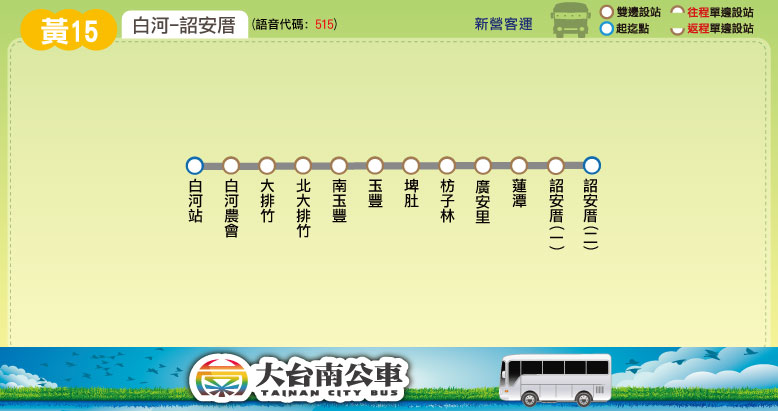
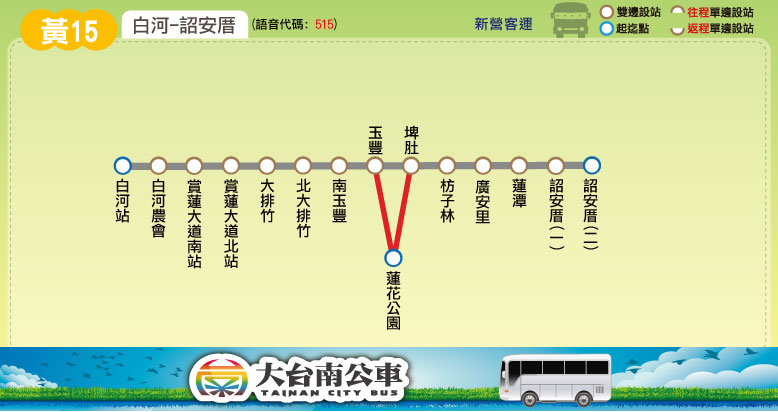
更新時刻表：黃15 (假日新增「白河－蓮花公園」加班車，以及現有班次假日繞駛蓮花公園)

Changed region(s): [[0.1234, 0.3786, 0.3085, 0.6699], [0.4627, 0.4078, 0.5553, 0.8155], [0.4627, 0.2913, 0.5553, 0.3786]]

diff --git a/route/fare_and_time/yellow_15.js b/route/fare_and_time/yellow_15.js
@@ -1,14 +1,13 @@
 yellow_15_interval_name = ["白河","大排竹","玉豐","埤肚","枋子林","蓮潭","詔安厝"];
 yellow_15_interval_stop = [
-["白河站","白河農會"], // 白河
+["白河站","白河農會","賞蓮大道南站","賞蓮大道北站"], // 白河
 ["大排竹","北大排竹"], // 大排竹
-["南玉豐","玉豐"], // 玉豐
+["南玉豐","玉豐","蓮花公園"], // 玉豐
 ["埤肚"], // 埤肚
-["枋子林"], // 枋子林
-["廣安里","蓮潭"], // 蓮潭
+["枋子林","廣安里"], // 枋子林
+["蓮潭"], // 蓮潭
 ["詔安厝(一)","詔安厝(二)"] // 詔安厝
 ];
-yellow_15_stop_time_consume = [0,3,6,6,7,8,10,11,13,13,14,15];
 yellow_15_fare = [
 [26],
 [26,26],
@@ -21,8 +20,13 @@ yellow_15_fare = [
 // format = [time at the start stop] or
 // [time, other] or
 // [time, start_stop, end_stop, other]
-yellow_15_main_stop_name = ["白河","玉豐","枋子林","詔安厝"];
-yellow_15_main_stop_time_consume = [0, 8, 11, 15];
-yellow_15_important_stop = [0, 3]; // 白河, 三層崎
-yellow_15_time_go = [["06:45"],["10:50",['L']],["18:35",['L']]];
-yellow_15_time_return = [["06:25"],["07:05"],["11:10",['L']]];
+yellow_15_main_stop_name = ["白河","玉豐","蓮花公園","枋子林","詔安厝"];
+yellow_15_main_stop_time_consume = [0, 8, 10, 11, 15];
+yellow_15_important_stop = [0, 2, 4]; // 白河, 蓮花公園, 詔安厝
+var start_stop = 0; // 白河
+var end_stop = 2; // 蓮花公園
+yellow_15_time_go = [["06:45",[end_stop]],["10:50",['L',end_stop]],["18:35",['L',end_stop]]];
+yellow_15_time_return = [["06:25",[end_stop]],["07:05",[end_stop]],["11:10",['L',end_stop]]];
+
+yellow_15_holiday_time_go = [["06:45",[[end_stop+1,4]]],["08:10",start_stop,end_stop],["09:10",start_stop,end_stop],["10:10",start_stop,end_stop],["10:50",['L',[end_stop+1,4]]],["12:10",start_stop,end_stop],["13:10",start_stop,end_stop],["14:10",start_stop,end_stop],["15:10",start_stop,end_stop],["16:10",start_stop,end_stop],["17:10",start_stop,end_stop],["18:35",['L',[end_stop+1,4]]]];
+yellow_15_holiday_time_return = [["06:25",[[end_stop,4]]],["07:05",[[end_stop,4]]],["08:30",end_stop,start_stop],["09:30",end_stop,start_stop],["10:30",end_stop,start_stop],["11:10",['L',[end_stop,4]]],["12:30",end_stop,start_stop],["13:30",end_stop,start_stop],["14:30",end_stop,start_stop],["15:30",end_stop,start_stop],["16:30",end_stop,start_stop],["17:30",end_stop,start_stop]];

diff --git a/yellow/yellow_15.html b/yellow/yellow_15.html
@@ -3,12 +3,15 @@
 <head>
 <meta http-equiv="Content-Type" content="text/html; charset=utf-8" />
 <script type="text/javascript">
-	route_name = '黃15';
+	route_name = '黃15 白河賞蓮公車';
 	route_name_en = 'Yellow 15';
 	route_file_name = 'yellow_15';
 	route_type = 'yellow';
-	route_interval = ['白河','詔安厝'];
+	route_interval = ['白河','蓮花公園','詔安厝'];
+	route_start_stop = '白河';
+	route_end_stop = '蓮花公園/詔安厝';
 </script>
+<link href="../css/radio_style.css" rel="stylesheet" />
 <script src="../tools/web_model.js"></script> 
 <script type="text/javascript">
 	header_code();
@@ -18,9 +21,10 @@
 <script type="text/javascript">
 	block_header();
 	block_route_map(null);
-	block_route_info(route_interval,'新營客運','','里程計費','http://www.2384.com.tw/ebus/jsp/ajaxBus.jsp?pathId=1515&locale=zh_TW');
+	block_route_info(route_interval,'新營客運','','里程計費','http://www.2384.com.tw/ebus/jsp/ajaxBus.jsp?pathId=1515&locale=zh_TW',[['平日','normal'],['假日','holiday']]);
 	block_fare(0, null);
-	block_time_schedule('白河','詔安厝',L_message);
+	//block_time_schedule('白河','詔安厝',L_message);
+	block_multiple_time_schedule( [['平日班表','normal'],['假日班表','holiday']],L_message+'<p></p>配合白河蓮花季活動，<span style="color: blue;">自106年5月6日起至7月30日止</span>之<span style="color: red;">國定例假日</span>，<br />行駛「白河－蓮花公園」賞蓮加班車；另現有「【黃15】白河－詔安厝」同時配合繞駛至『蓮花公園』');
 	block_transfer(transfer_baihe);
 	block_copyright();
 </script>

diff --git a/tools/route_infor.js b/tools/route_infor.js
@@ -90,7 +90,7 @@ yellow_12_2_route = '關子嶺 ─ 水火同源 ─ 關子嶺<br /><div class="s
 yellow_13_route = '白河 ─ 關子嶺 ─ 南寮';
 yellow_14_route = '白河 ─ 三層崎';
 yellow_14_1_route = '白河 ─ 甘宅 ─ 內角';
-yellow_15_route = '白河 ─ 詔安厝';
+yellow_15_route = '白河 ─ 蓮花公園 ─ 詔安厝';
 yellow_20_route = '麻豆 ─ 下營 ─ 林鳳營火車站';
 
 urban_0_route = '臺南火車站 ─ 體育公園 ─ 臺南火車站';
